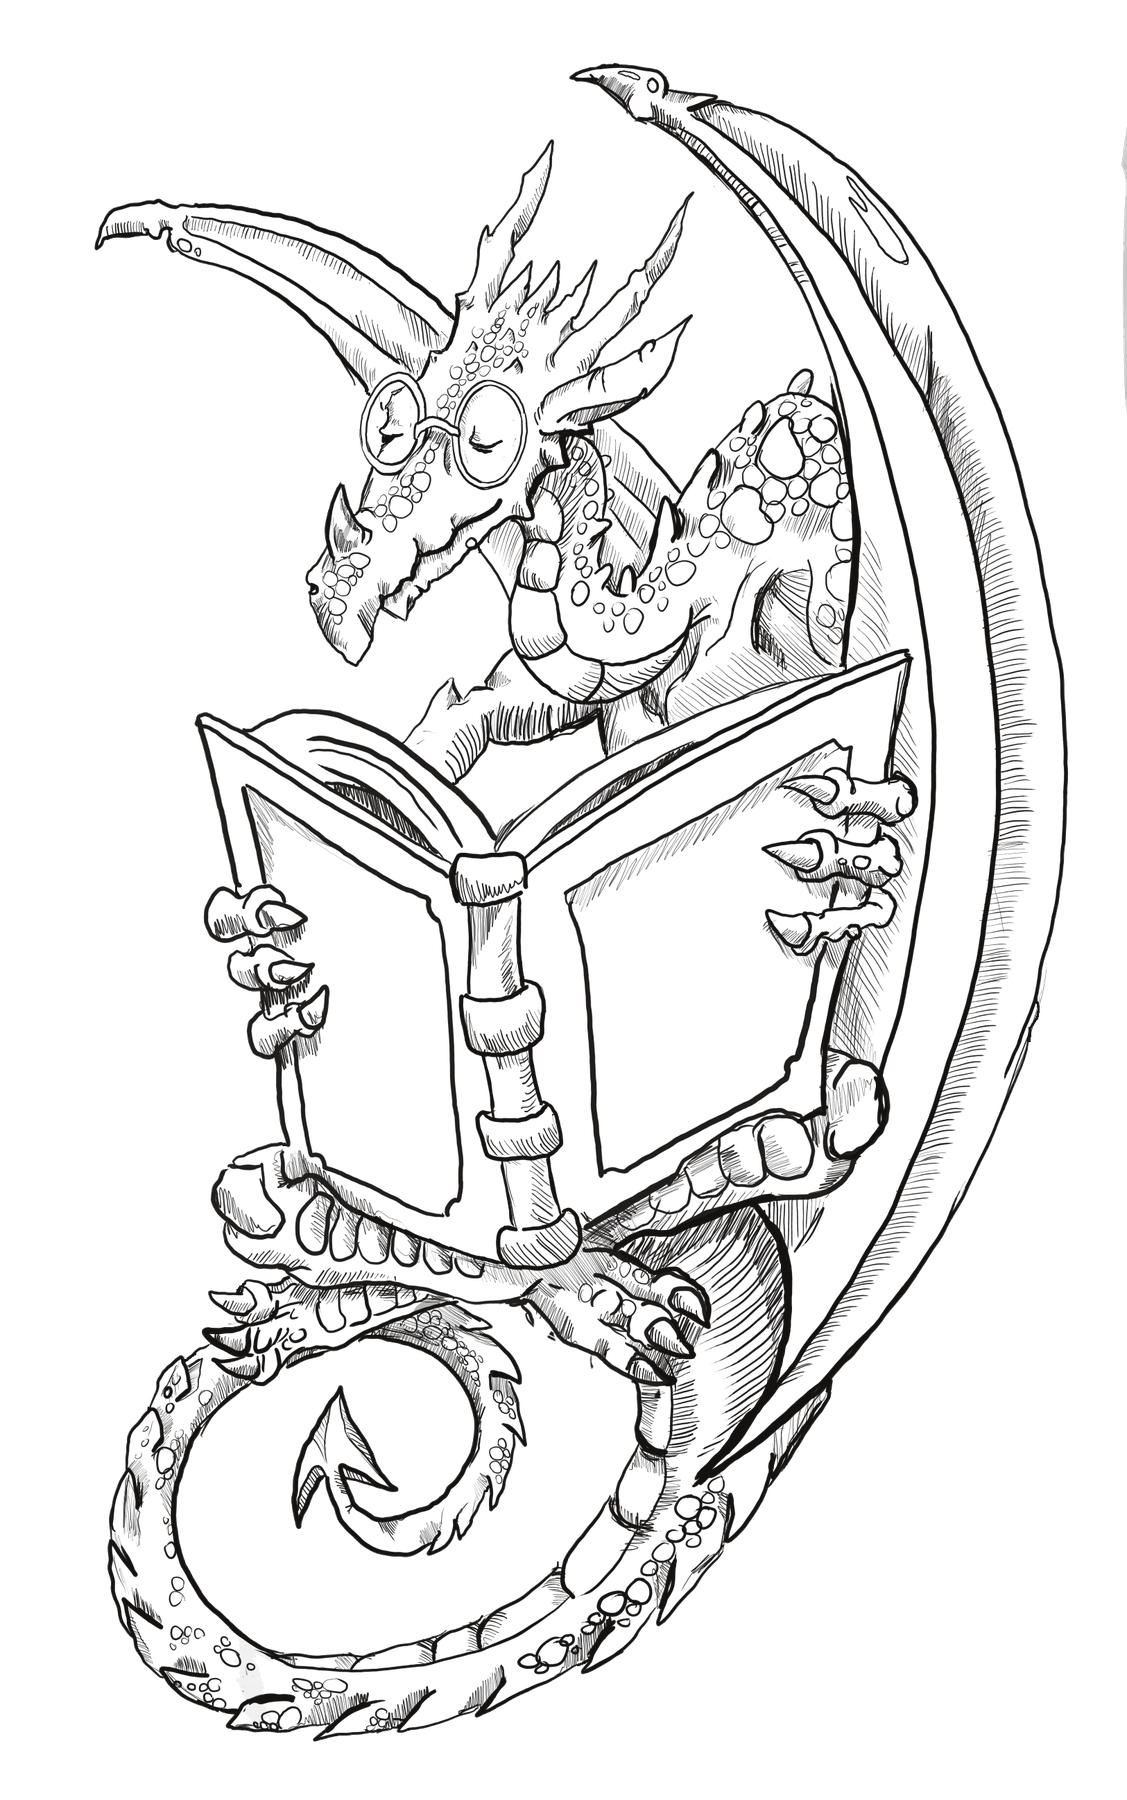
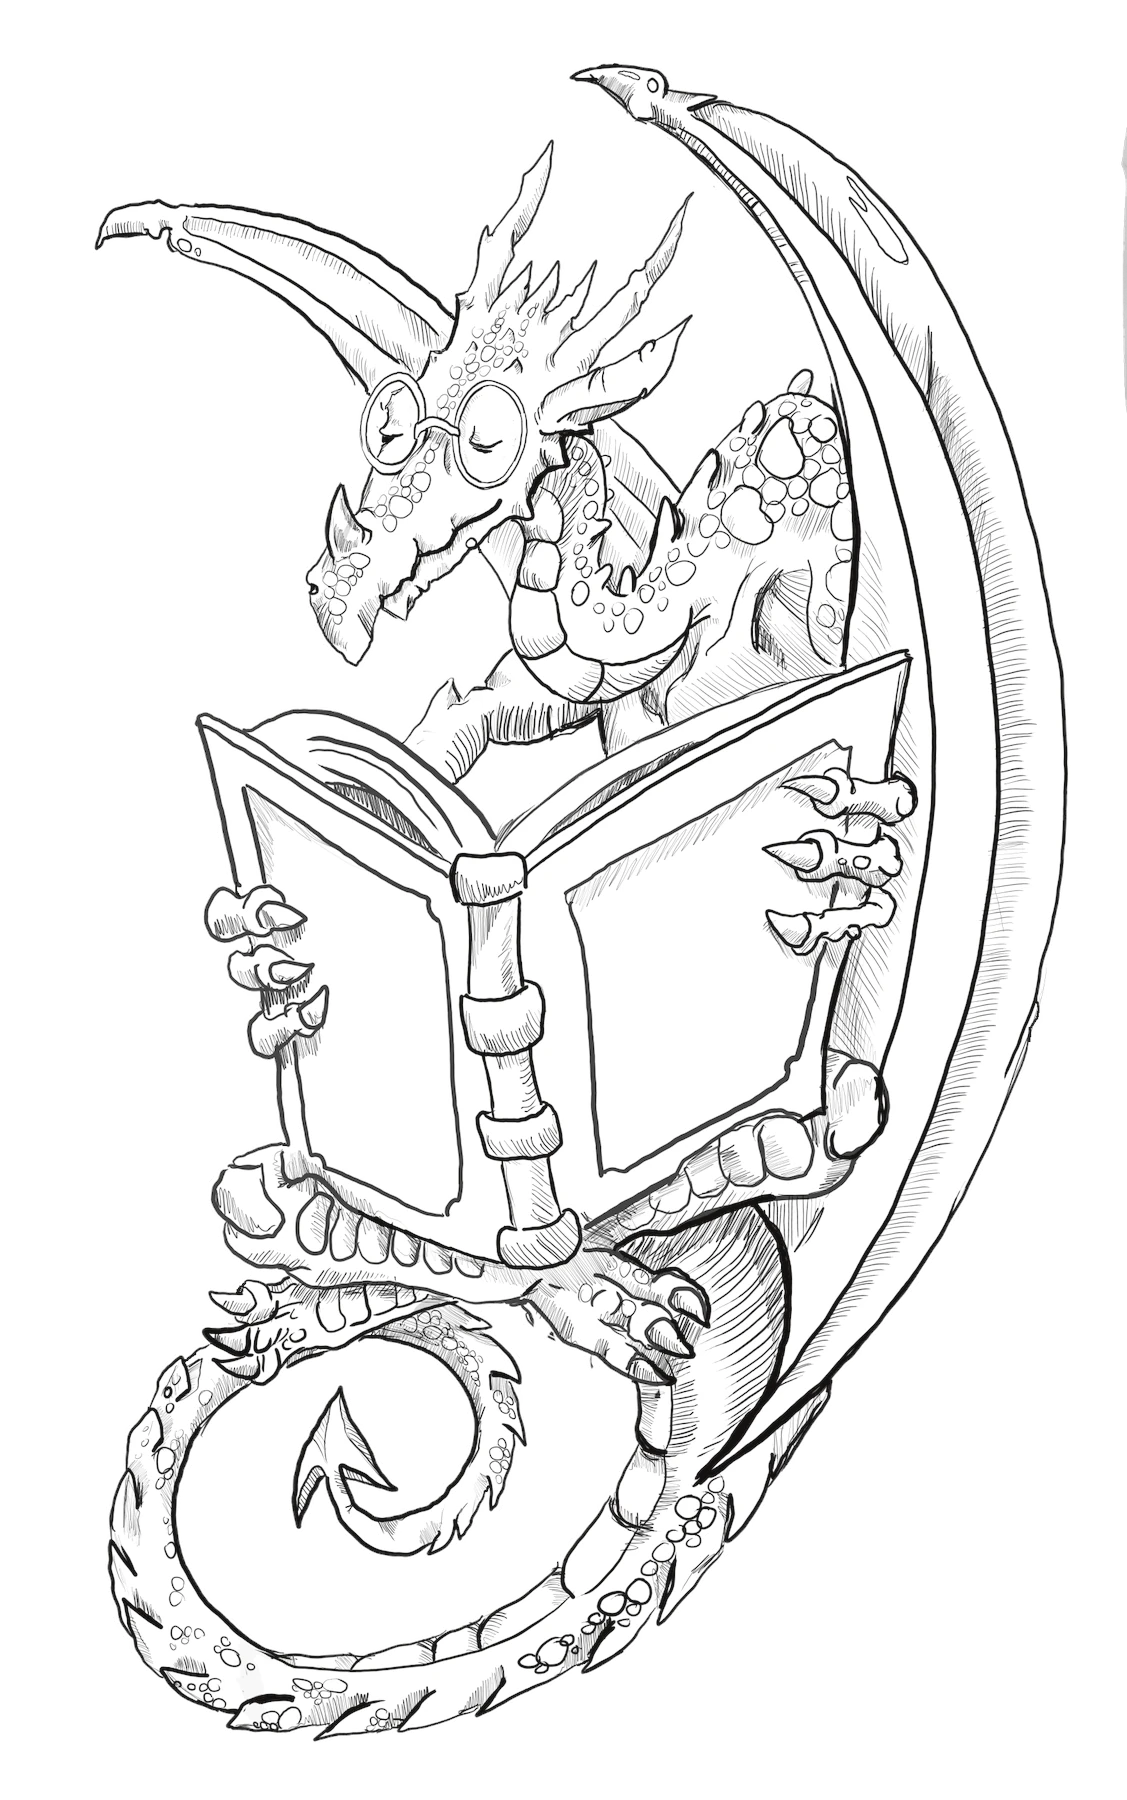
animating dragon

diff --git a/index.html b/index.html
@@ -80,6 +80,25 @@
       height: auto;
       max-width: 100%;
       max-height: calc(100dvh - 4rem);
+      animation: levitate 8s ease-in-out infinite;
+    }
+
+    @keyframes levitate {
+      0%, 100% {
+        transform: translateY(0);
+        filter: drop-shadow(0 8px 3px rgba(26, 24, 20, 0.7));
+      }
+      50% {
+        transform: translateY(-18px);
+        filter: drop-shadow(0 24px 8px rgba(26, 24, 20, 0.45));
+      }
+    }
+
+    @media (prefers-reduced-motion: reduce) {
+      .dragon {
+        animation: none;
+        filter: drop-shadow(0 8px 3px rgba(26, 24, 20, 0.7));
+      }
     }
 
     .intro,
